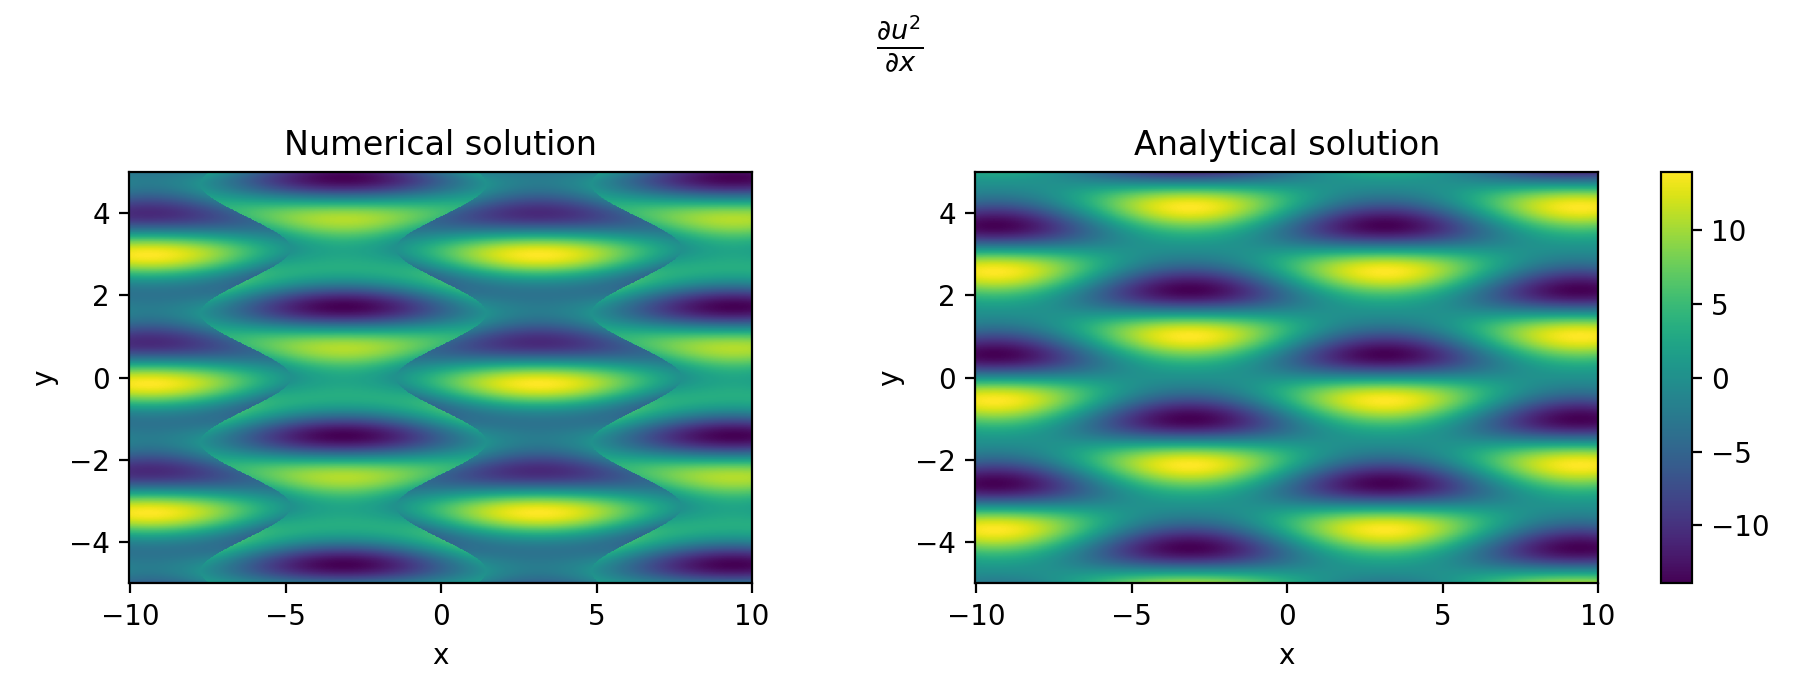
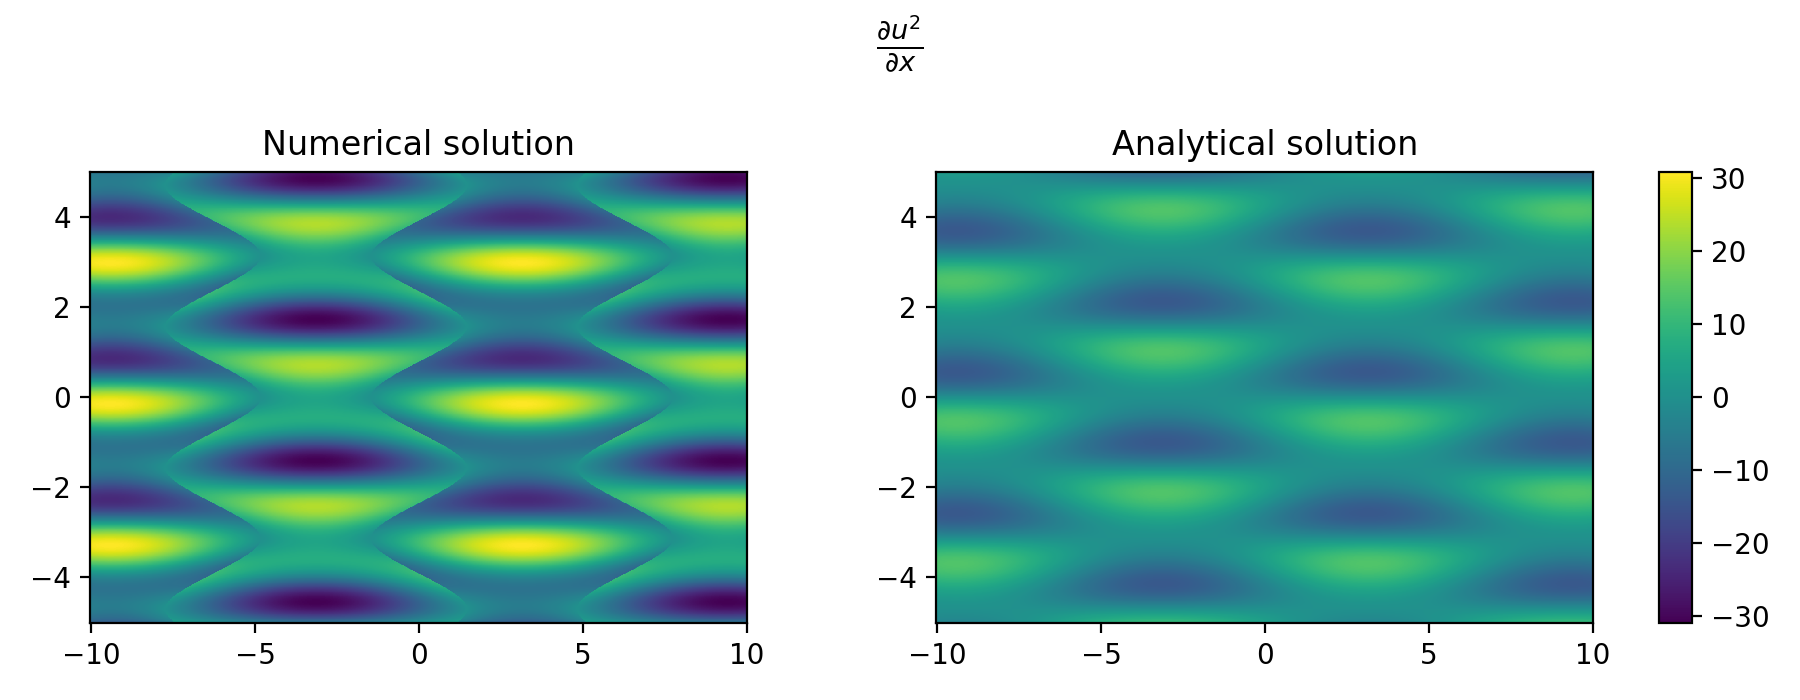
changed and commentet plotting.py

diff --git a/testing_derivatives/plotting.py b/testing_derivatives/plotting.py
@@ -3,6 +3,9 @@ import matplotlib.pyplot as plt
 from load_cfg import load_cfg
 import sympy as sy
 import os
+from tqdm import tqdm
+from matplotlib.colors import Normalize
+import matplotlib.cm as cm
 
 # loading parameter file
 cfg = load_cfg('../testing_derivatives/config.cfg')
@@ -13,7 +16,7 @@ x_max = cfg.x_max
 y_min = cfg.y_min
 y_max = cfg.y_max
 
-# loading arrays
+# loading arrays calculated in C++
 u = np.genfromtxt ('../testing_derivatives/outputs/u.csv', delimiter=",")
 v = np.genfromtxt ('../testing_derivatives/outputs/v.csv', delimiter=",")
 d2udx2 = np.genfromtxt ('../testing_derivatives/outputs/d2udx2.csv', delimiter=",")
@@ -27,10 +30,10 @@ dv2dy = np.genfromtxt ('../testing_derivatives/outputs/dv2dy.csv', delimiter=","
 x = np.genfromtxt ('../testing_derivatives/outputs/x.csv', delimiter=",")
 y = np.genfromtxt ('../testing_derivatives/outputs/y.csv', delimiter=",")
 
-#put into Array for Plotting
+# put into Array for Plotting
 numRes_Arr = [u, v, d2udx2, d2udy2, d2vdx2, d2vdy2, du2dx, dv2dy, duvdx, duvdy]
 
-#calculate analytical derivative using sympy
+# calculate analytical derivative using sympy
 X = sy.symbols('X')
 Y = sy.symbols('Y')
 U = 2*sy.cos(X)+ 3*sy.sin(Y)
@@ -44,11 +47,12 @@ D2VDY2 = sy.diff(V, Y, Y)
 DUVDX = sy.diff(U*V, X)
 DV2DY = sy.diff(V**2, Y)
 
-#put into Array for Plotting
+# put into Array for Plotting
 analytRes_Arr_temp = [U, V, D2UDX2, D2UDY2, D2VDX2, D2VDY2, DU2DX, DV2DY, DUVDX, DUVDY]
 analytRes_Arr = []
 strRes_Arr = [r'$u$', r'$v$', r'$\frac{\partial^2 u}{\partial x^2}$', r'$\frac{\partial^2 u}{\partial y^2}$', r'$\frac{\partial^2 v}{\partial x^2}$', r'$\frac{\partial^2 v}{\partial y^2}$', r'$\frac{\partial u^2}{\partial x}$', r'$\frac{\partial v^2}{\partial y}$', r'$\frac{\partial uv}{\partial x}$', r'$\frac{\partial uv}{\partial y}$']
-#turn sympy expressions into callable functions
+
+# turn sympy expressions into callable functions
 for k in range(len(analytRes_Arr_temp)):
     analytRes_Arr_temp[k] = sy.lambdify([X,Y], analytRes_Arr_temp[k], "numpy")
     temp = np.zeros((len(x), len(y)))
@@ -57,35 +61,40 @@ for k in range(len(analytRes_Arr_temp)):
             temp[i,j] = analytRes_Arr_temp[k](x[i], y[j])
     analytRes_Arr.append(temp)
 
-
+# set path for saving plots
 outpath = "../testing_derivatives/plots"
 
+# initialize figure
 fig, ax = plt.subplots(1, 2, figsize= (9, 3.5))        # generate figure with axes
 bax = ax[0].inset_axes([1.1, 0, 0.05, 1], transform=ax[0].transAxes)
 bax.axis('off')
 cax = ax[1].inset_axes([1.1, 0, 0.05, 1], transform=ax[1].transAxes) # Colorbar is held by
-im = ax[0].pcolormesh(x, y, numRes_Arr[0])    # initialize plot
-im = ax[1].pcolormesh(x, y, analytRes_Arr[0])
-ax[0].set_title('Numerical solution')
-ax[1].set_title('Analytical solution')
-for i in range(2):
-    ax[i].set_xlabel('x')
-    ax[i].set_ylabel('y')
-fig.suptitle(strRes_Arr[0], fontsize=15)
-cb = fig.colorbar(im, ax=ax, cax=cax)
-plt.tight_layout()
-plt.draw()
-fig.savefig(os.path.join(outpath,"comparison_0.png"))
 
+for i in tqdm(range(0, len(numRes_Arr))):
 
-for i in range(1, len(numRes_Arr)):
+    # calculate max and min for colormap nomalization
     cax.clear()
-    im = ax[0].pcolormesh(x, y, numRes_Arr[i])
-    im = ax[1].pcolormesh(x, y, analytRes_Arr[i])
+    maxArr = []
+    maxArr.append(np.amax(numRes_Arr[i]))
+    maxArr.append(np.amax(analytRes_Arr[i]))
+    minArr = []
+    minArr.append(np.amin(numRes_Arr[i]))
+    minArr.append(np.amin(analytRes_Arr[i]))
+    cbmax = max(maxArr)
+    cbmin = min(minArr)
+
+    normalizer=Normalize(cbmin,cbmax)
+    im=cm.ScalarMappable(norm=normalizer)
+
+    # drawing of colormesh-plots
+    ax[0].pcolormesh(x, y, numRes_Arr[i], norm=normalizer)
+    ax[1].pcolormesh(x, y, analytRes_Arr[i], norm=normalizer)
     ax[0].set_title('Numerical solution')
     ax[1].set_title('Analytical solution')
     fig.suptitle(strRes_Arr[i], fontsize=14)
     cb = fig.colorbar(im, ax=ax, cax=cax)
     plt.tight_layout()
     plt.draw()
+
+    # saving the figure as png
     fig.savefig(os.path.join(outpath,"comparison_{0}.png".format(i)), dpi=200)
